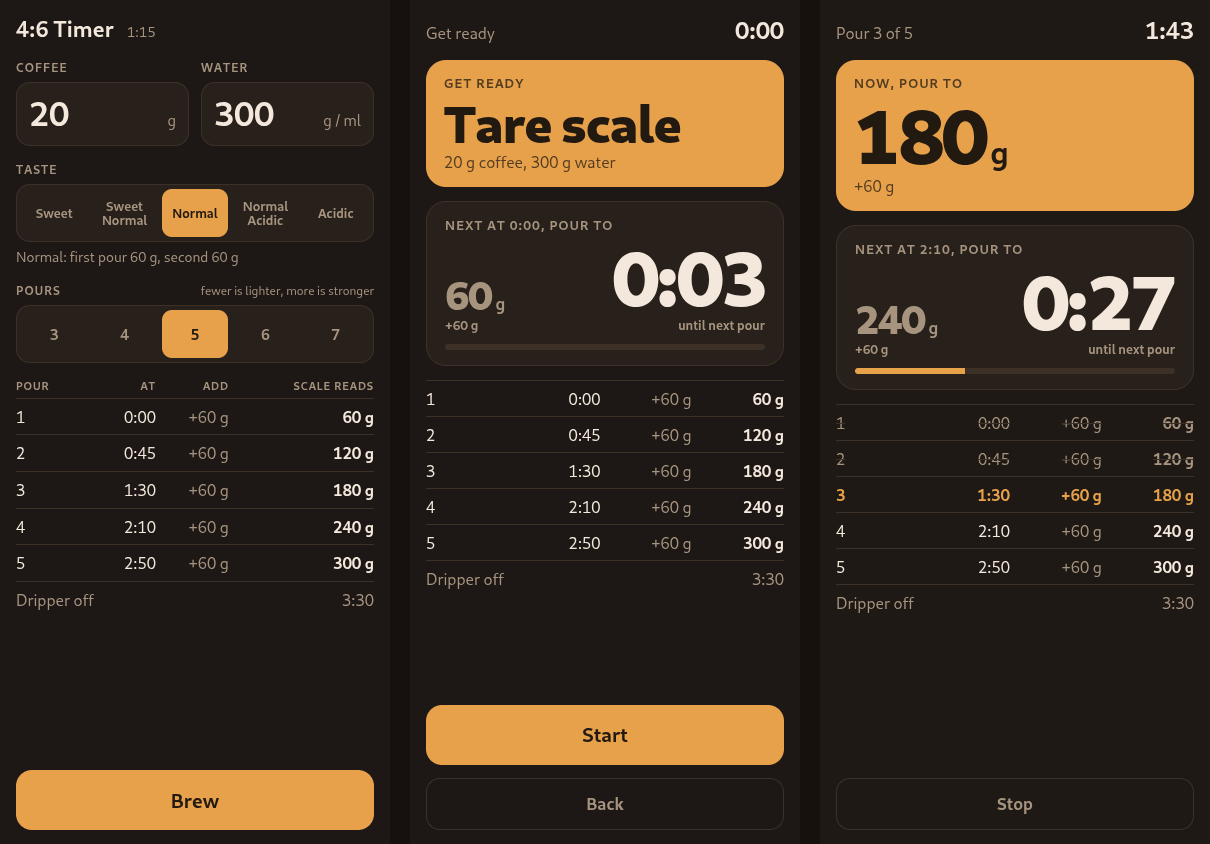
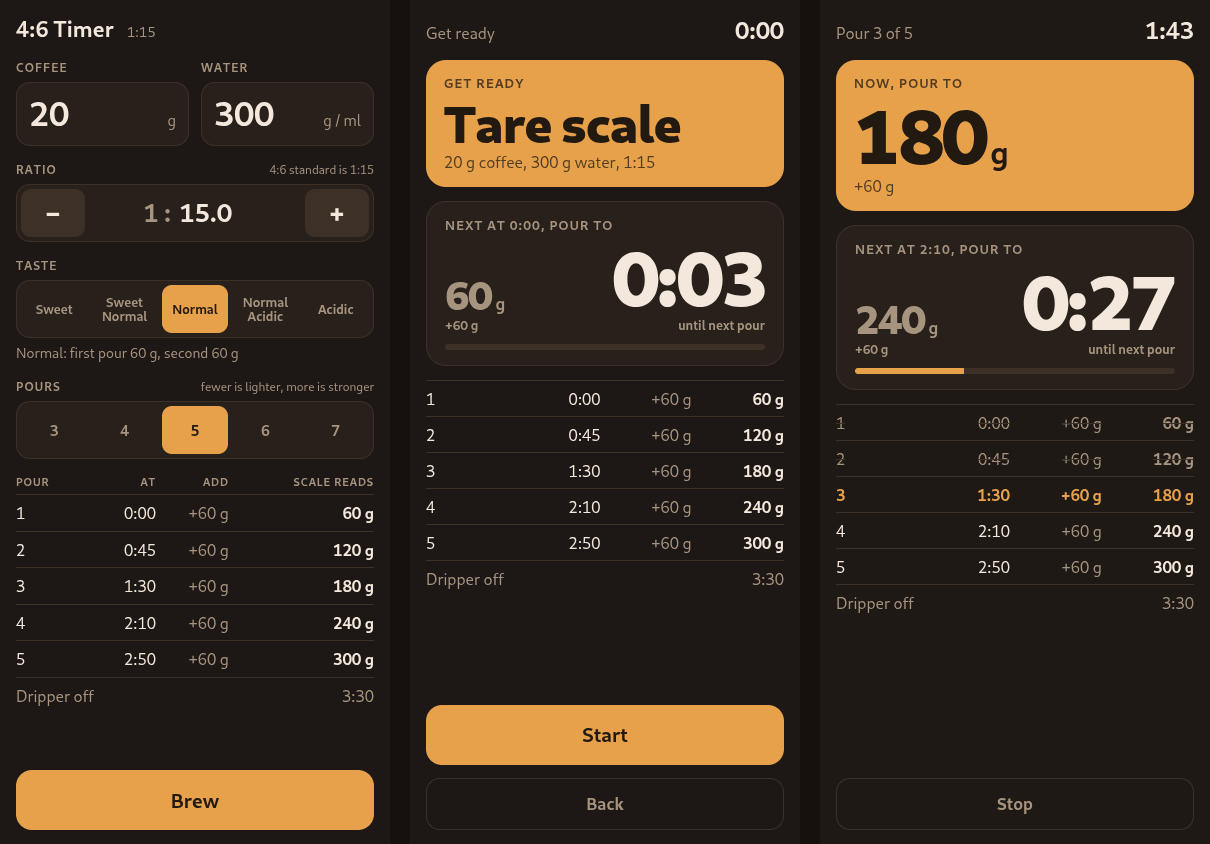
Adjustable brew ratio, 1:10 to 1:22 in 0.1 steps
Stepper under the amounts: tap, hold to repeat, or type. A ratio change
keeps whichever amount was typed last. Ratio stored in whole tenths;
water now computed with integer math, so exact halves round up.
Service worker revalidates files so a new page never runs stale JS.

Claude-Session: https://claude.ai/code/session_01JLEZkYVfJqTThyMfAG9ZcM

diff --git a/app/index.html b/app/index.html
@@ -98,6 +98,21 @@
   }
   .seg button[aria-pressed="true"] { background: var(--accent); color: var(--accent-ink); }
   .seg.taste button { font-size: 13px; }
+  .stepper {
+    display: grid; grid-template-columns: 64px 1fr 64px; gap: 4px;
+    background: var(--panel); border: 1px solid var(--line); border-radius: 14px; padding: 4px;
+  }
+  .stepper:focus-within { border-color: var(--accent); }
+  .stepper button {
+    border: 0; border-radius: 10px; min-height: 48px; background: var(--line);
+    font-size: 26px; font-weight: 600; line-height: 1;
+    user-select: none; -webkit-user-select: none; -webkit-touch-callout: none; touch-action: none;
+  }
+  .stepper button:disabled { opacity: 0.35; }
+  .stepper .ratio { display: flex; align-items: center; justify-content: center; gap: 8px; font-size: 26px; font-weight: 700; }
+  .stepper .ratio span { color: var(--dim); }
+  .stepper input { width: 2.6em; border: 0; outline: 0; background: none; padding: 0; font-size: inherit; font-weight: inherit; }
+  #ratioHint button { border: 0; background: none; padding: 0; color: var(--accent); font-size: inherit; font-weight: 600; }
   .hint { color: var(--dim); font-size: 14px; margin-top: 6px; min-height: 1.35em; }
 
   table { width: 100%; border-collapse: collapse; }
@@ -160,7 +175,7 @@
 <body>
 
 <main id="setup" class="screen">
-  <h1>4:6 Timer <small>1:15</small></h1>
+  <h1>4:6 Timer <small id="ratioHead">1:15</small></h1>
 
   <div class="amounts">
     <div>
@@ -170,6 +185,15 @@
     <div>
       <div class="label"><span>Water</span></div>
       <label class="field"><input id="water" type="text" inputmode="numeric" autocomplete="off" enterkeyhint="done" aria-label="Water in grams or millilitres"><span class="unit">g / ml</span></label>
+    </div>
+  </div>
+
+  <div>
+    <div class="label"><span>Ratio</span><span id="ratioHint"></span></div>
+    <div class="stepper">
+      <button id="ratioDown" type="button" aria-label="Stronger: less water per gram of coffee">&minus;</button>
+      <label class="ratio"><span>1 :</span><input id="ratio" type="text" inputmode="decimal" autocomplete="off" enterkeyhint="done" aria-label="Ratio, grams of water per gram of coffee"></label>
+      <button id="ratioUp" type="button" aria-label="Lighter: more water per gram of coffee">+</button>
     </div>
   </div>
 
@@ -225,12 +249,15 @@
   const LEAD = 3; // seconds of clicks before the first pour
 
   // ---------- settings ----------
-  const state = { coffee: 20, water: 300, taste: 2, pours: 5 };
+  // anchor: the amount the user typed last, which a ratio change leaves alone.
+  const state = { coffee: 20, water: 300, taste: 2, pours: 5, ratio: S.RATIO_DEFAULT, anchor: 'coffee' };
   try {
     const saved = JSON.parse(localStorage.getItem('coffee46') || '{}');
     if (saved.water >= 1 && saved.coffee > 0) { state.coffee = saved.coffee; state.water = saved.water; }
     if (saved.taste >= 0 && saved.taste < S.TASTES.length) state.taste = saved.taste | 0;
     if (saved.pours >= S.MIN_POURS && saved.pours <= S.MAX_POURS) state.pours = saved.pours | 0;
+    if (Number.isInteger(saved.ratio) && saved.ratio >= S.RATIO_MIN && saved.ratio <= S.RATIO_MAX) state.ratio = saved.ratio;
+    if (saved.anchor === 'water') state.anchor = 'water';
   } catch {}
   const save = () => { try { localStorage.setItem('coffee46', JSON.stringify(state)); } catch {} };
 
@@ -254,21 +281,67 @@
 
   $('coffee').oninput = () => {
     const c = num($('coffee'));
+    state.anchor = 'coffee';
     state.coffee = c > 0 ? c : 0;
-    state.water = c > 0 ? S.waterFor(c) : 0;
+    state.water = c > 0 ? S.waterFor(c, state.ratio) : 0;
     renderSetup('coffee');
   };
   $('water').oninput = () => {
     const w = Math.round(num($('water')));
+    state.anchor = 'water';
     state.water = w > 0 ? w : 0;
-    state.coffee = w > 0 ? S.coffeeFor(w) : 0;
+    state.coffee = w > 0 ? S.coffeeFor(w, state.ratio) : 0;
     renderSetup('water');
   };
-  for (const id of ['coffee', 'water']) {
+  for (const id of ['coffee', 'water', 'ratio']) {
     $(id).onfocus = (e) => e.target.select();
     $(id).onblur = () => renderSetup();
     $(id).onkeydown = (e) => { if (e.key === 'Enter') e.target.blur(); };
   }
+
+  // ---------- ratio ----------
+  function setRatio(r, typing) {
+    state.ratio = Math.min(S.RATIO_MAX, Math.max(S.RATIO_MIN, Math.round(r)));
+    if (state.anchor === 'water' && state.water > 0) state.coffee = S.coffeeFor(state.water, state.ratio);
+    else if (state.coffee > 0) state.water = S.waterFor(state.coffee, state.ratio);
+    renderSetup(typing);
+  }
+  // Accepts "16.7", "16,7" or "1:16.7"; returns tenths, or NaN.
+  const ratioTyped = () => Math.round(parseFloat($('ratio').value.replace(',', '.').replace(/^\s*1\s*:\s*/, '')) * 10);
+
+  // Applied live only once in range, so typing "1" on the way to "16" changes nothing.
+  $('ratio').oninput = () => {
+    const r = ratioTyped();
+    if (r >= S.RATIO_MIN && r <= S.RATIO_MAX) setRatio(r, 'ratio');
+  };
+  $('ratio').onblur = () => {
+    const r = ratioTyped();
+    if (Number.isFinite(r)) setRatio(r); else renderSetup();
+  };
+  $('ratioHint').onclick = (e) => { if (e.target.closest('button')) setRatio(S.RATIO_DEFAULT); };
+
+  // Tap steps 0.1; hold repeats, then speeds up.
+  function holdStep(btn, dir) {
+    let timer = 0, n = 0;
+    const stop = () => { clearTimeout(timer); timer = 0; };
+    const step = () => setRatio(state.ratio + dir);
+    const loop = () => {
+      step();
+      if (btn.disabled) return stop();
+      timer = setTimeout(loop, ++n > 10 ? 35 : 90);
+    };
+    btn.onpointerdown = (e) => {
+      if (e.button) return;
+      e.preventDefault();
+      stop(); n = 0; step();
+      timer = setTimeout(loop, 400);
+    };
+    for (const ev of ['pointerup', 'pointerleave', 'pointercancel']) btn.addEventListener(ev, stop);
+    btn.onclick = (e) => { if (e.detail === 0) step(); }; // keyboard Enter/Space
+    btn.oncontextmenu = (e) => e.preventDefault();
+  }
+  holdStep($('ratioDown'), -1);
+  holdStep($('ratioUp'), 1);
 
   function rowsHtml(sched) {
     return sched.steps.map((s) =>
@@ -280,6 +353,13 @@
   function renderSetup(typing) {
     if (typing !== 'coffee') $('coffee').value = state.coffee || '';
     if (typing !== 'water') $('water').value = state.water || '';
+    if (typing !== 'ratio') $('ratio').value = (state.ratio / 10).toFixed(1);
+    $('ratioDown').disabled = state.ratio <= S.RATIO_MIN;
+    $('ratioUp').disabled = state.ratio >= S.RATIO_MAX;
+    $('ratioHead').textContent = '1:' + S.fmtRatio(state.ratio);
+    const std = '1:' + S.fmtRatio(S.RATIO_DEFAULT);
+    if (state.ratio === S.RATIO_DEFAULT) $('ratioHint').textContent = `4:6 standard is ${std}`;
+    else $('ratioHint').innerHTML = `<button type="button">Reset to ${std}</button>`;
     [...$('taste').children].forEach((b, i) => b.setAttribute('aria-pressed', i === state.taste));
     [...$('pours').children].forEach((b, i) => b.setAttribute('aria-pressed', i + S.MIN_POURS === state.pours));
     $('start').disabled = !valid();
@@ -415,7 +495,7 @@
         $('nowK').textContent = 'Get ready';
         $('nowBig').innerHTML = 'Tare scale';
         $('nowBig').classList.add('words');
-        $('nowSub').textContent = `${state.coffee} g coffee, ${total} g water`;
+        $('nowSub').textContent = `${state.coffee} g coffee, ${total} g water, 1:${S.fmtRatio(state.ratio)}`;
       } else {
         $('stepLabel').textContent = `Pour ${cur.n} of ${steps.length}`;
         $('nowK').textContent = 'Now, pour to';

diff --git a/test.js b/test.js
@@ -29,7 +29,7 @@ for (let c10 = 50; c10 <= 1200; c10 += 1) {
   for (let t = 0; t < S.TASTES.length; t++) {
     for (let p = S.MIN_POURS; p <= S.MAX_POURS; p++) {
       const { total, steps, end } = S.buildSchedule(S.waterFor(coffee), t, p);
-      assert.strictEqual(total, Math.round(coffee * 15));
+      assert.strictEqual(total, Math.round((c10 * 15) / 10));
       assert.strictEqual(steps.length, p);
       assert.strictEqual(steps[p - 1].target, total, 'last target is total');
       assert.strictEqual(steps[1].target, Math.round(total * 0.4), 'first two pours are 40%');
@@ -51,4 +51,31 @@ assert.strictEqual(S.coffeeFor(750), 50);
 assert.strictEqual(S.coffeeFor(1000), 66.7);
 assert.strictEqual(S.buildSchedule(1000, 2, 5).steps[4].target, 1000); // typed water is kept as the total
 
-console.log('ok,', combos, 'combinations');
+// Ratios: every tenth from 1:10 to 1:22.
+assert.strictEqual(S.waterFor(20), 300);
+assert.strictEqual(S.waterFor(20, 167), 334);
+assert.strictEqual(S.waterFor(18.5, 160), 296);
+assert.strictEqual(S.coffeeFor(300, 167), 18);
+assert.strictEqual(S.fmtRatio(150), '15');
+assert.strictEqual(S.fmtRatio(167), '16.7');
+let ratios = 0;
+for (let r = S.RATIO_MIN; r <= S.RATIO_MAX; r++) {
+  for (let c10 = 50; c10 <= 1200; c10 += 7) {
+    const coffee = c10 / 10;
+    const water = S.waterFor(coffee, r);
+    assert.ok(Number.isInteger(water));
+    assert.ok(Math.abs(water - (c10 * r) / 100) <= 0.5, `water for ${coffee} g at ${r}`);
+    const back = S.coffeeFor(water, r);
+    assert.ok(Math.abs(back - coffee) <= 0.05 + 0.5 / (r / 10) + 1e-9, `coffee back for ${water} g at ${r}`);
+    for (let p = S.MIN_POURS; p <= S.MAX_POURS; p++) {
+      const { steps } = S.buildSchedule(water, 2, p);
+      assert.strictEqual(steps[p - 1].target, water);
+      assert.ok(steps.every((s) => s.add > 0));
+    }
+    ratios++;
+  }
+}
+assert.strictEqual(S.fmtRatio(S.RATIO_MIN), '10');
+assert.strictEqual(S.fmtRatio(S.RATIO_MAX), '22');
+
+console.log('ok,', combos, 'combinations,', ratios, 'ratio checks');

diff --git a/app/schedule.js b/app/schedule.js
@@ -1,6 +1,9 @@
 // 4:6 method schedule. Pure functions, shared by the page and test.js.
 (function (root) {
-  const RATIO = 15;
+  // Ratio is grams of water per gram of coffee, kept in whole tenths (150 = 1:15.0) so it never drifts.
+  const RATIO_DEFAULT = 150;
+  const RATIO_MIN = 100;
+  const RATIO_MAX = 220;
   const END = 210; // dripper off at 3:30, always
 
   // First pour's share of the first 40%, in 30ths of total water.
@@ -16,12 +19,18 @@
   const MIN_POURS = 3;
   const MAX_POURS = 7;
 
-  function waterFor(coffee) {
-    return Math.round(coffee * RATIO);
+  // Coffee is read in tenths of a gram, so the product is exact integer math.
+  function waterFor(coffee, ratio = RATIO_DEFAULT) {
+    return Math.round((Math.round(coffee * 10) * ratio) / 100);
   }
 
-  function coffeeFor(water) {
-    return Math.round((water / RATIO) * 10) / 10;
+  function coffeeFor(water, ratio = RATIO_DEFAULT) {
+    return Math.round((water * 100) / ratio) / 10;
+  }
+
+  // 150 -> "15", 167 -> "16.7"
+  function fmtRatio(ratio) {
+    return ratio % 10 ? (ratio / 10).toFixed(1) : String(ratio / 10);
   }
 
   // `total` is whole grams of water. Returns { total, end, steps: [{ n, at, add, target }] }.
@@ -51,7 +60,7 @@
     return Math.floor(s / 60) + ':' + String(s % 60).padStart(2, '0');
   }
 
-  const api = { RATIO, END, TASTES, MIN_POURS, MAX_POURS, waterFor, coffeeFor, buildSchedule, fmtTime };
+  const api = { RATIO_DEFAULT, RATIO_MIN, RATIO_MAX, END, TASTES, MIN_POURS, MAX_POURS, waterFor, coffeeFor, fmtRatio, buildSchedule, fmtTime };
   if (typeof module !== 'undefined' && module.exports) module.exports = api;
   else root.Schedule = api;
 })(typeof globalThis !== 'undefined' ? globalThis : this);

diff --git a/app/sw.js b/app/sw.js
@@ -1,4 +1,5 @@
-// Network first, cache as the offline fallback.
+// Network first, cache as the offline fallback. `no-cache` revalidates every file,
+// so an updated page never runs against a stale schedule.js from the HTTP cache.
 const CACHE = 'coffee46';
 const FILES = ['./', 'schedule.js', 'manifest.webmanifest', 'icon.svg', 'icon-180.png', 'icon-512.png'];
 
@@ -11,7 +12,7 @@ self.addEventListener('activate', (e) => e.waitUntil(self.clients.claim()));
 self.addEventListener('fetch', (e) => {
   if (e.request.method !== 'GET') return;
   e.respondWith(
-    fetch(e.request)
+    fetch(e.request, { cache: 'no-cache' })
       .then((res) => {
         if (res.ok) {
           const copy = res.clone();

diff --git a/README.md b/README.md
@@ -8,7 +8,8 @@ A pour-over timer for Tetsu Kasuya's 4:6 method. It runs in any phone browser, w
 
 ## What it does
 
-- Type the coffee or the water and the other fills in at 1:15.
+- Type the coffee or the water and the other fills in at your ratio.
+- Set the ratio from 1:10 to 1:22 in steps of 0.1. Tap − or +, hold to move faster, or tap the number and type it. Changing the ratio keeps whichever amount you typed last and recalculates the other.
 - Pick a taste (five steps from sweet to acidic) and a number of pours (3 to 7). The table shows when to pour, how much to add, and what the scale should read.
 - **Brew** shows the whole brew before it starts. **Start** gives a 3 second count-in, then:
   - The big card is the number your scale should read right now.
@@ -31,7 +32,7 @@ It installs as an app and opens full screen.
 
 Tetsu Kasuya brewed this way to win the 2016 World Brewers Cup. This app follows his published rules:
 
-- Water is 15 times the coffee by weight.
+- Water is 15 times the coffee by weight. That's the app's default; change the ratio for a stronger or lighter cup and the rest of the method scales with it.
 - The first 40% of the water goes in as two pours, at 0:00 and 0:45. How you split it sets the taste: a smaller first pour is sweeter, a larger one is brighter.
 - The other 60% is split evenly over the remaining pours, which start at 1:30 and are spaced evenly before 3:30. Fewer pours give a lighter cup, more pours a stronger one.
 - Take the dripper off at 3:30.
